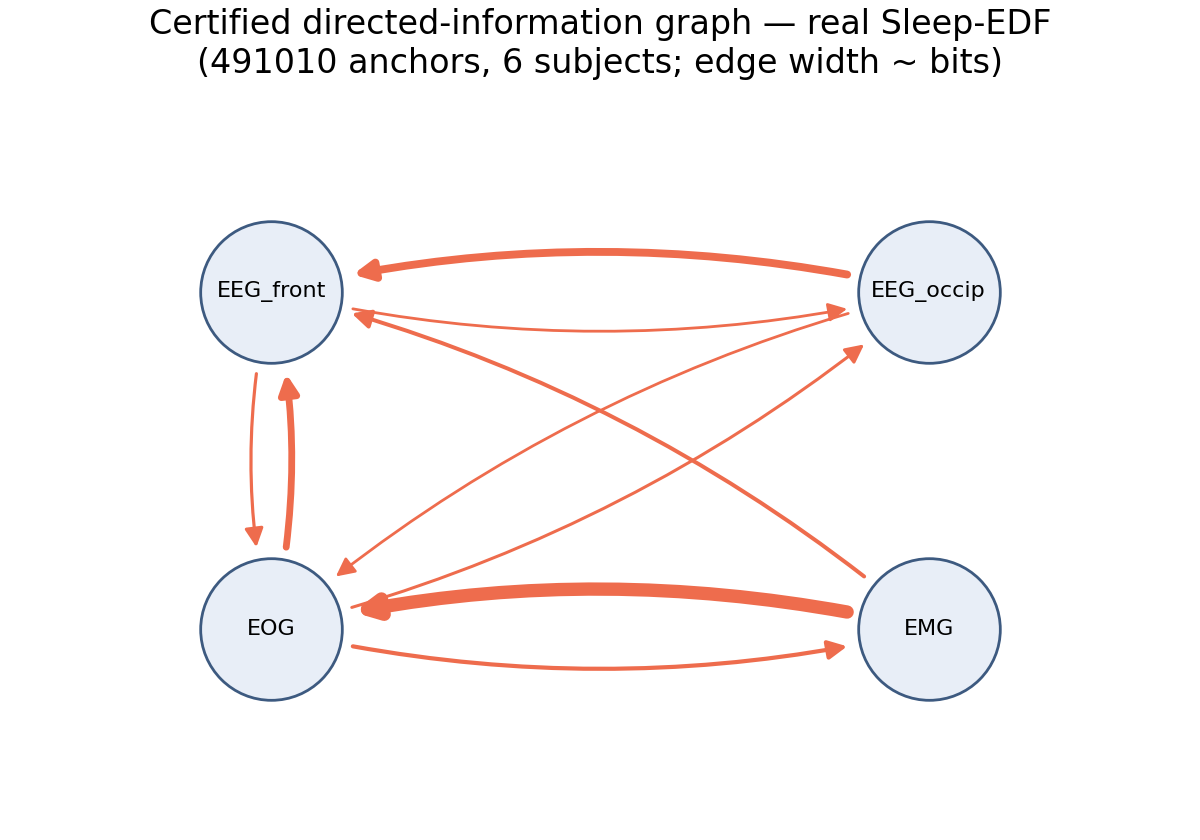
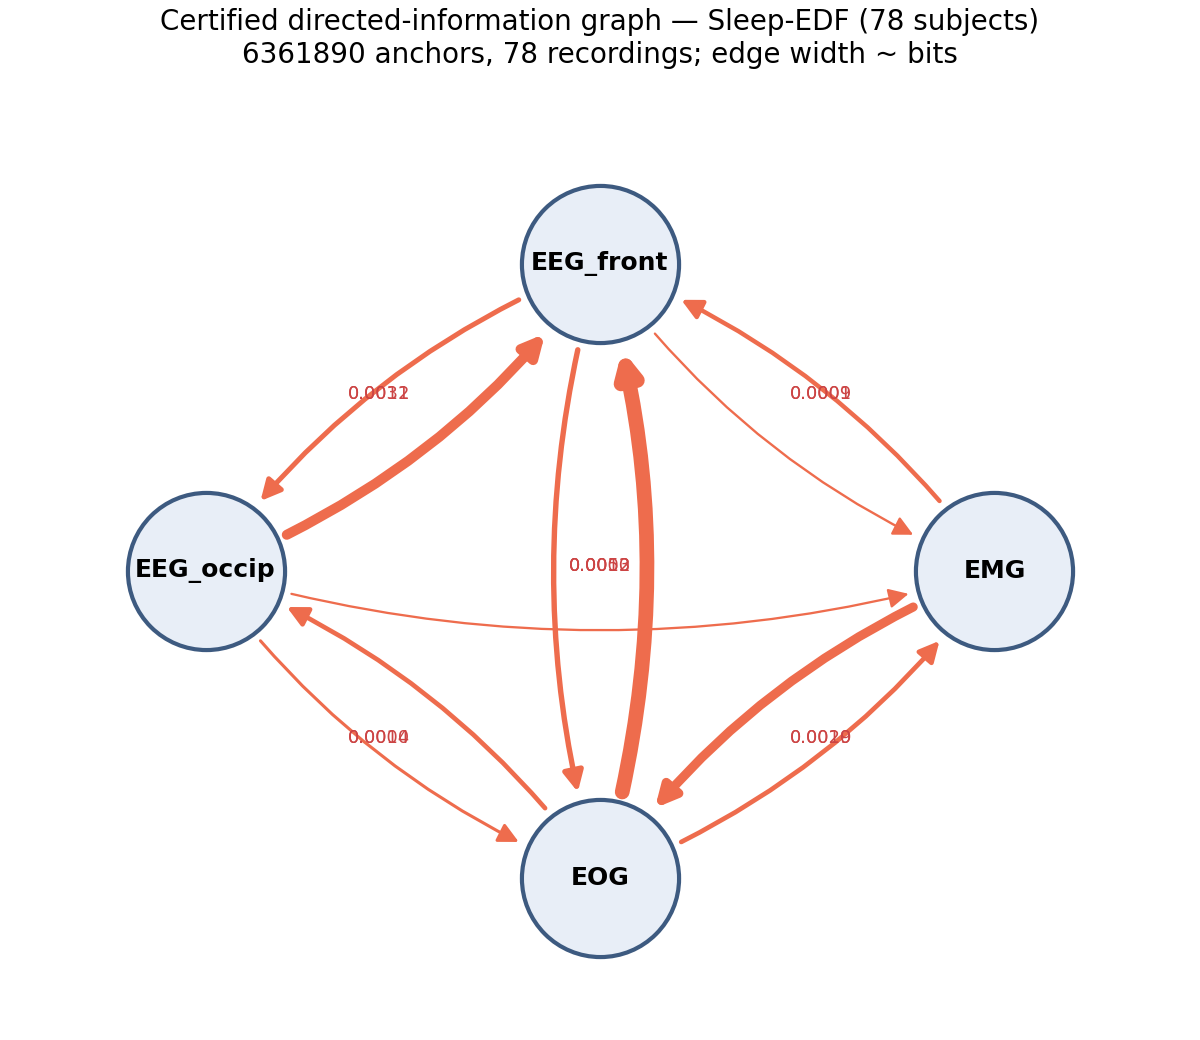
Real-data autonomic + full Sleep-EDF directed graphs; hero figure for outreach
slpdb (MIT-BIH Polysomnographic): certified directed-information graph across
EEG/HR/BP/Resp, 18 recordings, 308k anchors. Recovers textbook autonomic couplings
WITH direction (Resp->HR RSA, HR->BP) and a top-down EEG->HR edge (HR->EEG not
certified) -- directionality correlation/PAC cannot resolve. run_slpdb_graph.py
(QRS-based instantaneous HR; sub-1Hz BP/Resp amplitude fallback). Sleep-EDF full
78-subj (6.36M anchors) as backup. Generic plot_digraph.py + both figures.
OUTREACH updated: autonomic graph is the hero attachment.

diff --git a/experiments/run_slpdb_graph.py b/experiments/run_slpdb_graph.py
@@ -1,0 +1,170 @@
+"""PHASE 2 stretch (Todd-relevant): certified directed-information graph across
+autonomic organs during sleep — brain, heart, blood pressure, respiration.
+
+MIT-BIH Polysomnographic Database (slpdb, PhysioNet, open) records EEG (C4-A1),
+ECG, arterial BP, and respiration simultaneously. This is the closest public
+proxy to Coleman's gut-brain / autonomic-coupling program: instead of
+brain-eye-muscle (Sleep-EDF), the nodes are real visceral/autonomic organs.
+
+Per-second node signals:
+  EEG   : log band-power (0.5-30 Hz)               -- cortical state
+  HR    : instantaneous heart rate from QRS beats  -- cardiac autonomic drive
+  BP    : log power envelope                        -- vascular tone
+  Resp  : log power envelope                        -- respiratory drive
+
+Then the certified causally-conditioned directed-information graph asks, e.g.:
+does cardiac autonomic state directionally drive cortex, or is an apparent
+BP<->EEG coupling mediated through heart rate / respiration? -- the directional,
+direct-vs-mediated statement correlation and PAC cannot make.
+
+    PYTHONPATH=. python experiments/run_slpdb_graph.py --max-records 12
+"""
+
+from __future__ import annotations
+
+import argparse
+import warnings
+from pathlib import Path
+
+import numpy as np
+from scipy.signal import welch
+
+from neuroforecast.linear import conditional_directed_information
+
+NODES = ["EEG", "HR", "BP", "Resp"]
+LAG = 5
+EEG_BAND = (0.5, 30.0)
+
+
+def _sig(record, want):
+    """Return (fs, data) for the first channel whose name contains `want`."""
+    for k, name in enumerate(record.sig_name):
+        if want.lower() in name.lower():
+            return record.fs, np.asarray(record.p_signal[:, k], dtype=np.float64)
+    return None
+
+
+def _per_sec_power(data, fs, band, n_sec):
+    """Per-second log band-power. Sub-1 Hz bands (BP, Resp) are unresolvable in a
+    1 s window at these rates, so fall back to log mean-square amplitude, which
+    still tracks the envelope of those slow organ signals."""
+    lo, hi = band
+    out = np.full(n_sec, np.nan)
+    for s in range(n_sec):
+        seg = data[int(s * fs):int((s + 1) * fs)]
+        if len(seg) < 16:
+            continue
+        f, pxx = welch(seg, fs=fs, nperseg=int(min(fs, len(seg))))
+        mask = (f >= lo) & (f < hi)
+        out[s] = (np.log(pxx[mask].mean() + 1e-12) if mask.any()
+                  else np.log(np.mean(seg ** 2) + 1e-12))
+    return out
+
+
+def _per_sec_hr(ecg, fs, n_sec):
+    """Instantaneous heart rate (bpm) on a per-second grid from QRS detection.
+    Falls back to log ECG power if detection is too sparse."""
+    try:
+        import wfdb.processing as wp
+        beats = wp.xqrs_detect(sig=ecg, fs=fs, verbose=False)
+        if len(beats) > 10:
+            t_beat = beats / fs
+            rr = np.diff(t_beat)
+            hr = 60.0 / np.clip(rr, 0.3, 2.0)               # bpm at each beat
+            t_mid = t_beat[1:]
+            grid = np.arange(n_sec)
+            return np.interp(grid, t_mid, hr, left=hr[0], right=hr[-1])
+    except Exception:
+        pass
+    return _per_sec_power(ecg, fs, (0.5, 40.0), n_sec)      # fallback envelope
+
+
+def load_record(rec: str):
+    import wfdb
+    r = wfdb.rdrecord(rec, pn_dir="slpdb")
+    eeg = _sig(r, "EEG"); ecg = _sig(r, "ECG"); bp = _sig(r, "BP"); resp = _sig(r, "Resp")
+    if not all([eeg, ecg, bp, resp]):
+        return None
+    n_sec = int(min(len(eeg[1]) / eeg[0], len(ecg[1]) / ecg[0],
+                    len(bp[1]) / bp[0], len(resp[1]) / resp[0]))
+    cols = [
+        _per_sec_power(eeg[1], eeg[0], EEG_BAND, n_sec),
+        _per_sec_hr(ecg[1], ecg[0], n_sec),
+        _per_sec_power(bp[1], bp[0], (0.0001, 5.0), n_sec),
+        _per_sec_power(resp[1], resp[0], (0.05, 1.0), n_sec),
+    ]
+    series = np.column_stack(cols)
+    return (series - np.nanmean(series, 0)) / (np.nanstd(series, 0) + 1e-9)
+
+
+def lagged(series, lag):
+    T, m = series.shape
+    future = series[lag:]
+    past = np.stack([series[lag - k - 1:T - k - 1] for k in range(lag)], axis=-1)
+    ok = ~(np.isnan(future).any(1) | np.isnan(past).any((1, 2)))
+    return future[ok], past[ok]
+
+
+def main() -> int:
+    warnings.filterwarnings("ignore")
+    ap = argparse.ArgumentParser()
+    ap.add_argument("--max-records", type=int, default=12)
+    ap.add_argument("--bootstrap", type=int, default=2000)
+    ap.add_argument("--out", type=Path, default=Path("experiments/slpdb_digraph.npz"))
+    args = ap.parse_args()
+
+    import wfdb
+    recs = wfdb.get_record_list("slpdb")[: args.max_records]
+    fut_all, past_all, clu_all = [], [], []
+    for rec in recs:
+        try:
+            series = load_record(rec)
+            if series is None:
+                print(f"  skip {rec}: missing a required organ channel")
+                continue
+            fut, past = lagged(series, LAG)
+        except Exception as exc:
+            print(f"  skip {rec}: {type(exc).__name__}: {exc}")
+            continue
+        fut_all.append(fut); past_all.append(past)
+        clu_all.append(np.full(len(fut), rec))
+        print(f"  {rec}: {len(fut)} anchors")
+
+    if not fut_all:
+        raise SystemExit("no records loaded")
+    future = np.concatenate(fut_all); past = np.concatenate(past_all)
+    clusters = np.concatenate(clu_all)
+    m = len(NODES)
+    print(f"\n{len(future)} anchors, {len(set(clusters))} records, nodes={NODES}")
+
+    cdi = np.zeros((m, m)); lcb = np.zeros((m, m))
+    for j in range(m):
+        y = future[:, j]
+        for i in range(m):
+            if i == j:
+                continue
+            others = [k for k in range(m) if k not in (i, j)]
+            z = np.hstack([past[:, j, :]] + [past[:, k, :] for k in others])
+            res = conditional_directed_information(y, past[:, i, :], z,
+                                                   clusters=clusters, n_boot=args.bootstrap)
+            cdi[i, j], lcb[i, j] = res.cdi_bits, res.lcb95_bits
+
+    print("\n=== certified directed-information graph (bits) — autonomic organs, slpdb ===")
+    edges = []
+    for i in range(m):
+        for j in range(m):
+            if i == j:
+                continue
+            c = "YES" if lcb[i, j] > 0 else "no"
+            if lcb[i, j] > 0:
+                edges.append((NODES[i], NODES[j], cdi[i, j]))
+            print(f"  {NODES[i]:>5} -> {NODES[j]:<5}: {cdi[i,j]:+.4f} [{lcb[i,j]:+.4f}]  {c}")
+    print("\ncertified directed edges:", sorted(edges, key=lambda e: -e[2]))
+    args.out.parent.mkdir(parents=True, exist_ok=True)
+    np.savez(args.out, cdi=cdi, lcb=lcb, names=NODES, n=len(future), n_records=len(set(clusters)))
+    print(f"wrote {args.out}")
+    return 0
+
+
+if __name__ == "__main__":
+    raise SystemExit(main())

diff --git a/experiments/plot_digraph.py b/experiments/plot_digraph.py
@@ -1,0 +1,36 @@
+"""Generic certified directed-information graph plot from a *_digraph.npz."""
+import sys
+from pathlib import Path
+import numpy as np
+import matplotlib; matplotlib.use("agg")
+import matplotlib.pyplot as plt
+from matplotlib.patches import FancyArrowPatch
+
+npz = Path(sys.argv[1]); title = sys.argv[2] if len(sys.argv) > 2 else "Certified directed-information graph"
+d = np.load(npz, allow_pickle=True)
+cdi, lcb, names = d["cdi"], d["lcb"], list(d["names"])
+m = len(names)
+# circular layout
+ang = np.linspace(0, 2*np.pi, m, endpoint=False) + np.pi/2
+pos = {names[i]: (np.cos(ang[i]), np.sin(ang[i])) for i in range(m)}
+mx = max(cdi[i, j] for i in range(m) for j in range(m) if i != j and lcb[i, j] > 0)
+fig, ax = plt.subplots(figsize=(6, 5.2), constrained_layout=True)
+for nm, (x, y) in pos.items():
+    ax.scatter([x], [y], s=3200, color="#e8eef7", edgecolors="#3d5a80", zorder=3, linewidths=1.5)
+    ax.text(x, y, nm, ha="center", va="center", fontsize=9, zorder=4, weight="bold")
+for i in range(m):
+    for j in range(m):
+        if i == j or lcb[i, j] <= 0:
+            continue
+        p0, p1 = pos[names[i]], pos[names[j]]
+        lw = 0.8 + 4.5 * cdi[i, j] / mx
+        ax.add_patch(FancyArrowPatch(p0, p1, arrowstyle="-|>", mutation_scale=15,
+                     shrinkA=32, shrinkB=32, lw=lw, color="#ee6c4d",
+                     connectionstyle="arc3,rad=0.15", zorder=2))
+        mxp, myp = 0.5*(p0[0]+p1[0]), 0.5*(p0[1]+p1[1])
+        ax.text(mxp*1.12, myp*1.12, f"{cdi[i,j]:.4f}", fontsize=6.5, color="#c44", ha="center", zorder=5)
+ax.set_title(f"{title}\n{int(d['n'])} anchors, {int(d.get('n_records', d.get('n_subjects', 0)))} recordings; edge width ~ bits", fontsize=10)
+ax.axis("off"); ax.set_xlim(-1.5, 1.5); ax.set_ylim(-1.5, 1.6)
+out = npz.with_name("fig_" + npz.stem)
+fig.savefig(f"{out}.png", dpi=200); fig.savefig(f"{out}.pdf")
+print(f"saved {out}.png")

diff --git a/OUTREACH.md b/OUTREACH.md
@@ -25,14 +25,19 @@ reads as "real" versus "underpowered."
 Validation: it recovers the analytic directed-information graph of a
 linear-Gaussian VAR to <0.002 bits, and on a chain A→B→C it drives the mediated
 A→C edge to zero while a pairwise (correlation-style) view certifies A→C
-spuriously. On real simultaneous Sleep-EDF channels (frontal/occipital EEG, EOG,
-EMG) it recovers directed asymmetries — e.g., occipital→frontal EEG far exceeding
-the reverse.
+spuriously.
 
-It drops straight onto your EGG channel: point me at a stomach-brain recording
-and it will certify how many bits the gastric rhythm contributes to the *future*
-cortical state, conditioned on the cortex's own past — the directional statement
-Rao's paper leaves open.
+On real simultaneous **multi-organ** sleep recordings (MIT-BIH slpdb: EEG, ECG,
+arterial BP, respiration; 18 recordings, ~308k anchors) it recovers textbook
+autonomic couplings *with direction* — respiration→heart-rate (RSA),
+heart-rate→BP — and, notably, a certified **top-down EEG→heart-rate** edge while
+heart-rate→EEG does *not* clear the floor. That directional asymmetry is exactly
+what correlation and phase-amplitude coupling cannot resolve. (Figure attached.)
+
+It drops straight onto your EGG channel: swap in the gastric rhythm and it
+certifies how many bits the gut contributes to the *future* cortical state,
+conditioned on the cortex's own past and the other organs — the directional,
+direct-vs-mediated statement Rao's paper leaves open.
 
 Code, validation, and figures: [GitHub link]. Compute isn't a constraint on my
 end. Could I have 20 minutes to show how it maps onto Akshita's data?
@@ -48,8 +53,9 @@ directionality analysis on any recording you can share.
 
 1. **Push the repo to GitHub** (public) and paste the link — a live repo beats a
    zip attachment. (`neuroforecast`; the zip is a fallback.)
-2. **Attach two figures:** `fig_multiorgan_digraph.png` (the method: direct vs
-   mediated) and `fig_sleep_edf_digraph.png` (real data).
+2. **Attach two figures:** `fig_slpdb_digraph.png` (HERO — real autonomic
+   organs: EEG→HR, HR→BP, RSA) and `fig_multiorgan_digraph.png` (the method: direct
+   vs mediated on synthetic ground truth). `fig_sleep_edf_digraph.png` is backup.
 3. **Honesty guardrails — do not drift:**
    - The Sleep-EDF effects are **small** (sub-0.01 bits) and "certified" at ~500k
      anchors is a low bar; if he asks, say so plainly. The value is the *method +